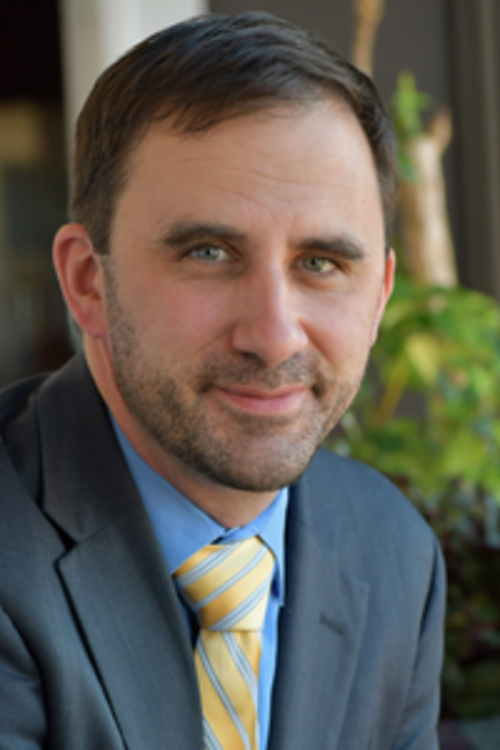
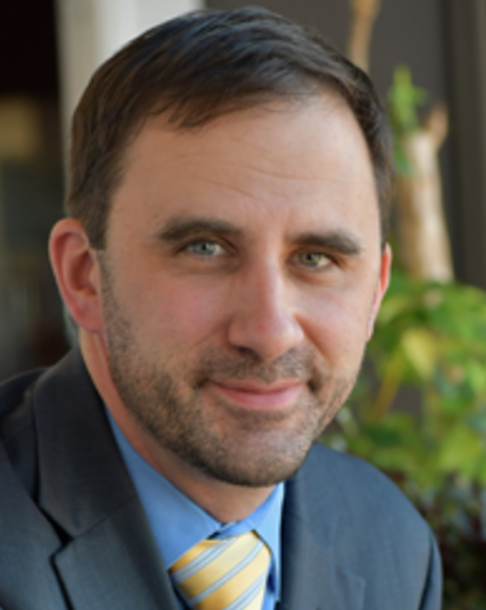
Add files via upload

diff --git a/publications.html b/publications.html
@@ -21,42 +21,51 @@
 
   <header class="page-hero">
     <h1>Publications</h1>
-    <p>Peer-reviewed papers, preprints, and other scholarly work from the lab.</p>
+    <p>Peer-reviewed papers and preprints from the lab.</p>
   </header>
 
   <main>
 
     <section>
       <p style="font-size:0.9rem; color:var(--grey-mid); margin-bottom:2rem;">
-        ‡ denotes equal contribution · * denotes corresponding author ·
         Full list also available on
         <a href="https://scholar.google.com" target="_blank" style="color:var(--accent);">Google Scholar</a>
       </p>
 
-      <!-- ── 2025 ── -->
-      <h2>2025</h2>
+      <!-- ── Highlights ── -->
+      <h2>H I G H L I G H T S</h2>
       <div class="divider"></div>
       <ul class="pub-list">
 
         <!-- Copy and paste a .pub-item block to add a publication -->
 
         <li class="pub-item">
-          <span class="pub-year">2025</span>
+          <span class="pub-year">2007</span>
           <div>
-            <p class="pub-title">Title of Your Most Recent Paper</p>
-            <p class="pub-authors">Author A, Author B, Farrar [First Initial]*</p>
-            <p class="pub-journal">Journal Name, Volume(Issue):Pages</p>
-            <a class="pub-link" href="#" target="_blank">DOI →</a>
+            <p class="pub-title">IL-2 receptor beta-dependent STAT5 activation is required for the development of Foxp3+ regulatory T cells.</p>
+            <p class="pub-authors">Burchill MA, Yang J, Vogtenhuber C, Blazar BR, Farrar MA</p>
+            <p class="pub-journal">J Immunol. 2007 Jan 1;178(1):280-90</p>
+            <a class="pub-link" href="https://pubmed.ncbi.nlm.nih.gov/17182565/" target="_blank">DOI → 10.4049/jimmunol.178.1.280</a>
           </div>
         </li>
 
         <li class="pub-item">
-          <span class="pub-year">2025</span>
+          <span class="pub-year">2008</span>
           <div>
-            <p class="pub-title">Title of Another 2025 Paper</p>
-            <p class="pub-authors">Author C‡, Author D‡, Author E, Farrar [First Initial]*</p>
-            <p class="pub-journal">Journal Name, Volume(Issue):Pages</p>
-            <a class="pub-link" href="#" target="_blank">DOI →</a>
+            <p class="pub-title">Linked T cell receptor and cytokine signaling govern the development of the regulatory T cell repertoire.</p>
+            <p class="pub-authors">Burchill MA, Yang J, Vang KB, Moon JJ, Chu HH, Lio CW, Vegoe AL, Hsieh CS, Jenkins MK, Farrar MA</p>
+            <p class="pub-journal">Immunity. 2008 Jan;28(1):112-21</p>
+            <a class="pub-link" href="https://pubmed.ncbi.nlm.nih.gov/18199418/" target="_blank">DOI → 10.1016/j.immuni.2007.11.022</a>
+          </div>
+        </li>
+
+        <li class="pub-item">
+          <span class="pub-year">2019</span>
+          <div>
+            <p class="pub-title">Thymic regulatory T cells arise via two distinct developmental programs.</p>
+            <p class="pub-authors">Owen DL, Mahmud SA, Sjaastad LE, Williams JB, Spanier JA, Simeonov DR, Ruscher R, Huang W, Proekt I, Miller CN, Hekim C, Jeschke JC, Aggarwal P, Broeckel U, LaRue RS, Henzler CM, Alegre ML, Anderson MS, August A, Marson A, Zheng Y, Williams CB, Farrar MA</p>
+            <p class="pub-journal">Nat Immunol. 2019 Feb;20(2):195-205</p>
+            <a class="pub-link" href="https://pubmed.ncbi.nlm.nih.gov/30643267/" target="_blank">DOI → 10.1038/s41590-018-0289-6</a>
           </div>
         </li>
 
@@ -64,17 +73,42 @@
     </section>
 
     <section>
-      <h2>2024</h2>
+      <h2>2026</h2>
       <div class="divider"></div>
       <ul class="pub-list">
 
         <li class="pub-item">
-          <span class="pub-year">2024</span>
           <div>
-            <p class="pub-title">Title of a 2024 Paper</p>
-            <p class="pub-authors">Author A, Author B, Farrar [First Initial]*</p>
+            <p class="pub-title">Manuscript coming soon!</p>
+            <p class="pub-authors">Joo S, Owen DL, ..., Farrar MA</p>
             <p class="pub-journal">Journal Name, Volume(Issue):Pages</p>
-            <a class="pub-link" href="#" target="_blank">DOI →</a>
+            <a class="pub-link" href="https://pubmed.ncbi.nlm.nih.gov/---/" target="_blank">DOI →</a>
+          </div>
+        </li>
+
+      </ul>
+    </section>
+
+    <section>
+      <h2>2025</h2>
+      <div class="divider"></div>
+      <ul class="pub-list">
+
+        <li class="pub-item">
+          <div>
+            <p class="pub-title">Leukemia escapes immunity by imposing a type 1 regulatory program on neoantigen-specific CD4+ T cells.</p>
+            <p class="pub-authors">Venkatesh H, Granados Centeno E, Luo Q, Arroyo M, Heltemes-Harris L, Knutson TP, Qiu Y, Haaning A, Webber BR, Bachanova V, Farrar MA, Tracy SI</p>
+            <p class="pub-journal">Blood, 146(23):2779-2793</p>
+            <a class="pub-link" href="https://pubmed.ncbi.nlm.nih.gov/40906918/" target="_blank">DOI → 10.1182/blood.2024028194</a>
+          </div>
+        </li>
+
+        <li class="pub-item">
+          <div>
+            <p class="pub-title">PDL1 Checkpoint blockade synergizes with Nilotinib but not Dasatinib to prevent leukemia relapse.</p>
+            <p class="pub-authors">VMorgan EC, Venkatesh H, Centeno EG, Heltemes-Harris LM, Hubbard G, Maiers TL, Dileepan T, Tracy SI, Farrar MA</p>
+            <p class="pub-journal">BbioRxiv [Preprint]</p>
+            <a class="pub-link" href="https://pubmed.ncbi.nlm.nih.gov/40631161/" target="_blank">DOI → 10.1101/2025.07.02.662848</a>
           </div>
         </li>
 
@@ -87,24 +121,91 @@
       <ul class="pub-list">
 
         <li class="pub-item">
-          <span class="pub-year">2023</span>
           <div>
-            <p class="pub-title">Title of a 2023 Paper</p>
-            <p class="pub-authors">Author A, Author B, Farrar [First Initial]*</p>
-            <p class="pub-journal">Journal Name, Volume(Issue):Pages</p>
-            <a class="pub-link" href="#" target="_blank">DOI →</a>
+            <p class="pub-title">Cytotoxic CD4 T cells in the mucosa and in cancer.</p>
+            <p class="pub-authors">Venkatesh H, Tracy SI, Farrar MA.</p>
+            <p class="pub-journal">Front Immunol, 2023 Aug 16;14:1233261</p>
+            <a class="pub-link" href="https://pubmed.ncbi.nlm.nih.gov/37654482/" target="_blank">DOI → 10.3389/fimmu.2023.1233261</a>
+          </div>
+        </li>
+
+      </ul>
+    </section>
+    
+    <section>
+      <h2>2022</h2>
+      <div class="divider"></div>
+      <ul class="pub-list">
+
+        <li class="pub-item">
+          <div>
+            <p class="pub-title">Nuclear corepressors NCOR1/NCOR2 regulate B cell development, maintain genomic integrity and prevent transformation.</p>
+            <p class="pub-authors">Lee RD, Knutson TP, Munro SA, Miller JT, Heltemes-Harris LM, Mullighan CG, Jepsen K, Farrar MA</p>
+            <p class="pub-journal">Nat Immunol. 2022 Dec;23(12):1763-1776</p>
+            <a class="pub-link" href="https://pubmed.ncbi.nlm.nih.gov/36316474/" target="_blank">DOI → 10.1038/s41590-022-01343-7</a>
+          </div>
+        </li>
+
+        <li class="pub-item">
+          <div>
+            <p class="pub-title">Tracking Regulatory T Cell Development in the Thymus Using Single-Cell RNA Sequencing/TCR Sequencing</p>
+            <p class="pub-authors">Owen DL, La Rue RS, Munro SA, Farrar MA</p>
+            <p class="pub-journal">J Immunol. 2022 Oct 1;209(7):1300-1313</p>
+            <a class="pub-link" href="https://pubmed.ncbi.nlm.nih.gov/36038290/" target="_blank">DOI → 10.4049/jimmunol.2200089</a>
+          </div>
+        </li>
+
+        <li class="pub-item">
+          <div>
+            <p class="pub-title">Combining nilotinib and PD-L1 blockade reverses CD4+ T-cell dysfunction and prevents relapse in acute B-cell leukemia</p>
+            <p class="pub-authors">Tracy SI, Venkatesh H, Hekim C, Heltemes-Harris LM, Knutson TP, Bachanova V, Farrar MA</p>
+            <p class="pub-journal">Blood. 2022 Jul 28;140(4):335-348</p>
+            <a class="pub-link" href="https://pubmed.ncbi.nlm.nih.gov/35275990/" target="_blank">DOI → 10.1182/blood.2021015341</a>
           </div>
         </li>
 
       </ul>
     </section>
 
-    <!-- Add more year sections by copying the pattern above -->
+    <section>
+      <h2>2021</h2>
+      <div class="divider"></div>
+      <ul class="pub-list">
+
+        <li class="pub-item">
+          <div>
+            <p class="pub-title">Single-cell analysis identifies dynamic gene expression networks that govern B cell development and transformation.</p>
+            <p class="pub-authors">Lee RD, Munro SA, Knutson TP, LaRue RS, Heltemes-Harris LM, Farrar MA</p>
+            <p class="pub-journal">Nat Commun. 2021 Nov 25;12(1):6843</p>
+            <a class="pub-link" href="https://pubmed.ncbi.nlm.nih.gov/34824268/" target="_blank">DOI → 10.1038/s41467-021-27232-5</a>
+          </div>
+        </li>
+
+        <li class="pub-item">
+          <div>
+            <p class="pub-title">Phenotypic and Functional Diversity in Regulatory T Cells.</p>
+            <p class="pub-authors">Sjaastad LE, Owen DL, Tracy SI, Farrar MA</p>
+            <p class="pub-journal">Front Cell Dev Biol. 2021 Sep 23;9:715901</p>
+            <a class="pub-link" href="https://pubmed.ncbi.nlm.nih.gov/34631704/" target="_blank">DOI → 10.3389/fcell.2021.715901</a>
+          </div>
+        </li>
+
+        <li class="pub-item">
+          <div>
+            <p class="pub-title">Identification of mutations that cooperate with defects in B cell transcription factors to initiate leukemia.</p>
+            <p class="pub-authors">Heltemes-Harris LM, Hubbard GK, LaRue RS, Munro SA, Yang R, Henzler CM, Starr TK, Sarver AL, Kornblau SM, Farrar MA</p>
+            <p class="pub-journal">Oncogene. 2021 Oct;40(43):6166-6179</p>
+            <a class="pub-link" href="https://pubmed.ncbi.nlm.nih.gov/34535769/" target="_blank">DOI → 10.1038/s41388-021-02012-z</a>
+          </div>
+        </li>
+        
+      </ul>
+    </section>
 
   </main>
 
   <footer>
-    <p>© 2025 Farrar Lab · University of Minnesota · <a href="contact.html">Contact Us</a></p>
+    <p>© 2026 Farrar Lab · University of Minnesota · <a href="contact.html">Contact Us</a></p>
   </footer>
 
 </body>

diff --git a/people.html b/people.html
@@ -99,7 +99,7 @@
 
         <div class="person-card">
           <div class="person-photo">
-            <img src="photos/Granados.jpg.avif" alt="EG" />
+            <img src="photos/Enoc.jpg" alt="EG" />
           </div>
           <h3>Enoc Granados Centeno</h3>
           <p class="role">PhD Student</p>
@@ -141,7 +141,7 @@
 
         <div class="person-card">
           <div class="person-photo">
-            <img src="photos/Kyra.jpeg" alt="KBB" />
+            <img src="photos/Kyra.jpg" alt="KBB" />
           </div>
           <h3>Kyra Boorsma Bergerud</h3>
           <p class="role">Researcher</p>
@@ -160,20 +160,35 @@
         <thead>
           <tr style="border-bottom:2px solid var(--grey-light);">
             <th style="text-align:left; padding:0.5rem 0; color:var(--grey-mid); font-weight:500; font-size:0.78rem; letter-spacing:0.08em; text-transform:uppercase;">Name</th>
-            <th style="text-align:left; padding:0.5rem 1rem; color:var(--grey-mid); font-weight:500; font-size:0.78rem; letter-spacing:0.08em; text-transform:uppercase;">Role</th>
+            <th style="text-align:left; padding:0.5rem 1rem; color:var(--grey-mid); font-weight:500; font-size:0.78rem; letter-spacing:0.08em; text-transform:uppercase;">Year</th>
             <th style="text-align:left; padding:0.5rem 0; color:var(--grey-mid); font-weight:500; font-size:0.78rem; letter-spacing:0.08em; text-transform:uppercase;">Current Position</th>
           </tr>
         </thead>
         <tbody>
           <tr style="border-bottom:1px solid var(--grey-light);">
-            <td style="padding:0.75rem 0; color:var(--navy); font-weight:500;">Hrishi Venkatesh</td>
-            <td style="padding:0.75rem 1rem; color:var(--grey-dark);">PhD, 20XX</td>
+            <td style="padding:0.75rem 0; color:var(--navy); font-weight:500;">Hrishi Venkatesh, PhD</td>
+            <td style="padding:0.75rem 1rem; color:var(--grey-dark);">2024</td>
             <td style="padding:0.75rem 0; color:var(--grey-dark);">Postdoctoral Researcher at Fred Hutch Cancer Center</td>
           </tr>
           <tr style="border-bottom:1px solid var(--grey-light);">
-            <td style="padding:0.75rem 0; color:var(--navy); font-weight:500;">Natalie David</td>
-            <td style="padding:0.75rem 1rem; color:var(--grey-dark);">PhD, 20XX</td>
-            <td style="padding:0.75rem 0; color:var(--grey-dark);">Resident at Cincinnati Children's Hospital</td>
+            <td style="padding:0.75rem 0; color:var(--navy); font-weight:500;">Natalie David, MD/PhD</td>
+            <td style="padding:0.75rem 1rem; color:var(--grey-dark);">2023</td>
+            <td style="padding:0.75rem 0; color:var(--grey-dark);">Resident Physician at Cincinnati Children's Hospital</td>
+          </tr>
+          <tr style="border-bottom:1px solid var(--grey-light);">
+            <td style="padding:0.75rem 0; color:var(--navy); font-weight:500;">Lucy Sjaastad, PhD</td>
+            <td style="padding:0.75rem 1rem; color:var(--grey-dark);">2022</td>
+            <td style="padding:0.75rem 0; color:var(--grey-dark);">Clinical Development Scientist at Philips</td>
+          </tr>
+          <tr style="border-bottom:1px solid var(--grey-light);">
+            <td style="padding:0.75rem 0; color:var(--navy); font-weight:500;">Robin Lee, MD/PhD</td>
+            <td style="padding:0.75rem 1rem; color:var(--grey-dark);">2022</td>
+            <td style="padding:0.75rem 0; color:var(--grey-dark);">??</td>
+          </tr>
+          <tr style="border-bottom:1px solid var(--grey-light);">
+            <td style="padding:0.75rem 0; color:var(--navy); font-weight:500;">David Owen, PhD</td>
+            <td style="padding:0.75rem 1rem; color:var(--grey-dark);">2021</td>
+            <td style="padding:0.75rem 0; color:var(--grey-dark);">Postdoctoral Researcher at Harvard Medical School</td>
           </tr>
         </tbody>
       </table>
@@ -193,7 +208,7 @@
   </main>
 
   <footer>
-    <p>© 2025 Farrar Lab · University of Minnesota · <a href="contact.html">Contact Us</a></p>
+    <p>© 2026 Farrar Lab · University of Minnesota · <a href="contact.html">Contact Us</a></p>
   </footer>
 
 </body>

diff --git a/style.css b/style.css
@@ -309,10 +309,7 @@ p:last-child { margin-bottom: 0; }
 .pub-item {
   padding: 1.5rem 0;
   border-bottom: 1px solid var(--grey-light);
-  display: grid;
-  grid-template-columns: 48px 1fr;
-  gap: 1rem;
-  align-items: start;
+  display: block;
 }
 
 .pub-year {

diff --git a/contact.html b/contact.html
@@ -35,7 +35,7 @@
             <p>
               Farrar Lab<br>
               Wallin Medical Biosciences Bldg<br>
-              Room ?<br>
+              Room 2-240<br>
               2101 6th St SE<br>
               Minneapolis, MN 55455
             </p>
@@ -86,7 +86,7 @@
   </main>
 
   <footer>
-    <p>© 2025 Farrar Lab · University of Minnesota · <a href="contact.html">Contact Us</a></p>
+    <p>© 2026 Farrar Lab · University of Minnesota · <a href="contact.html">Contact Us</a></p>
   </footer>
 
 </body>

diff --git a/research.html b/research.html
@@ -64,9 +64,9 @@ proteomics and novel mouse models to explore these questions.
         </div>
 
         <div class="research-card">
-          <h3>Mechanisms of Tr1 cells in Acute Lymphoblastic Leukemia</h3>
+          <h3>Understanding CD4 T cell responses in Acute Lymphoblastic Leukemia (ALL)</h3>
           <p>
-            [Research description goes here]
+            How does leukemia alter the balance between suppressive and effector CD4 T cells to remodel its microenvironment and drive immune dysfunction and relapse in ALL.
           </p>
         </div>
 

diff --git a/index.html b/index.html
@@ -85,7 +85,7 @@
   </main>
 
   <footer>
-    <p>© 2025 Farrar Lab · University of Minnesota · <a href="contact.html">Contact Us</a></p>
+    <p>© 2026 Farrar Lab · University of Minnesota · <a href="contact.html">Contact Us</a></p>
   </footer>
 
 </body>